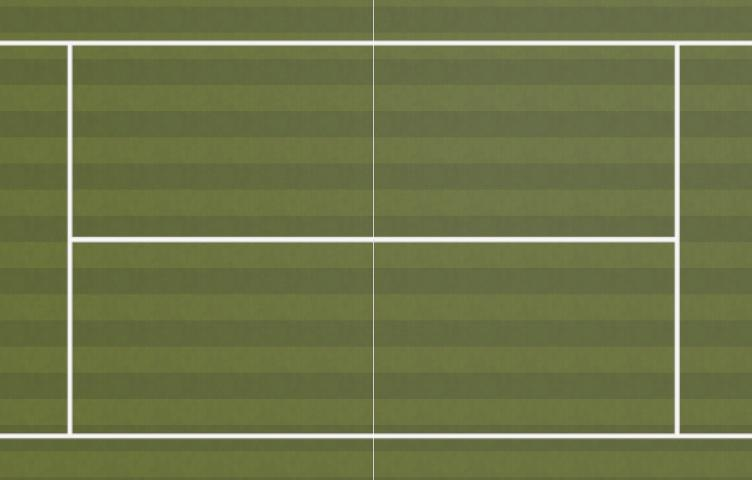
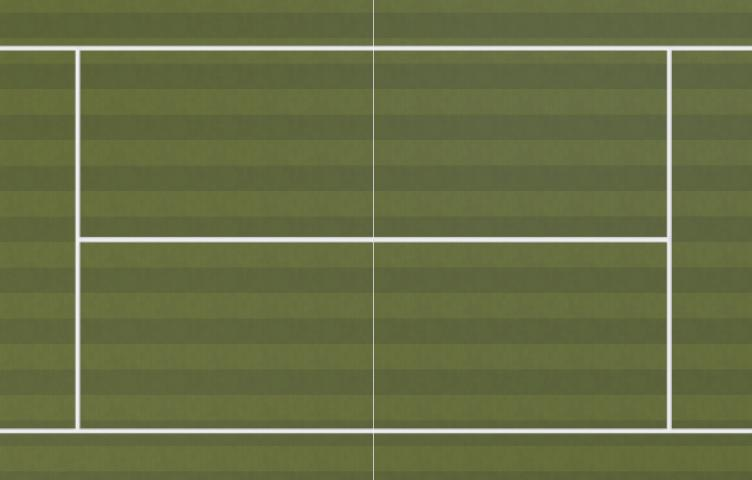
Retook empty court pictures with no shadows and fixed protocol 3 but the centroid detection is not working

Changed region(s): [[0.0, 0.0625, 1.0, 0.9375], [0.7952, 0.4688, 0.8258, 0.5]]

diff --git a/MatlabScripts/Demo/MatlabClient_3.m b/MatlabScripts/Demo/MatlabClient_3.m
@@ -83,7 +83,7 @@ while 1
     errorCode = MoveTennisBall(request, path);
 
     if errorCode == 0 
-        [leftImage, rightImage] = MoveCamera(request, path); 
+        [leftImage, rightImage] = MoveCamera(request, 0); 
 
         % 3. Grayscale Left/Right
         BallLeftGray  = preprocessImage(leftImage);
@@ -129,6 +129,16 @@ end
 write(client,'2'); %Transfer Protocol
 flush(client);
 
+    data = read(client,width*height);   
+    temp = reshape(data,[width,height]);
+    dataProcessed = permute(temp,[2 1]);
+    imageToShow = dataProcessed(:, :, 1);
+    imagesc(imageToShow);
+    colormap gray; % Sets the colormap to gray for better visualization of grayscale images
+    colorbar;  
+    pause(1)
+
+
 % Receive coordinates in 2D array [xLeft,yLeft,xRight,yRight,t][Frame]
 numFrames = read(client, 1, 'uint32');
 xLeft = read(client,numFrames, 'uint32');
@@ -166,23 +176,19 @@ for i = 1:numFrames
             error('Index exceeds the number of rows in ballData file.');
         end
     end
-
-    % Plotting both depths arrays against t
-    figure; % Create a new figure window
-    plot(calculatedDepths_t, calculatedDepths, '-o', 'DisplayName', 'Calculated Depths');
-    hold on; % Hold on to add another plot in the same figure
-    plot(calculatedDepths_t, actualDepths, '-s', 'DisplayName', 'Actual Depths from File');
-    hold off;
-    
-    % Formatting the graph
-    xlabel('Frame Number (t)');
-    ylabel('Depth');
-    title('Comparison of Calculated Depths and Actual Depths');
-    legend show; % Show legend to identify the plots
-
-
-
 end
+% Plotting both depths arrays against t
+figure; % Create a new figure window
+plot(calculatedDepths_t, calculatedDepths, '-o', 'DisplayName', 'Calculated Depths');
+hold on; % Hold on to add another plot in the same figure
+plot(calculatedDepths_t, actualDepths, '-s', 'DisplayName', 'Actual Depths from File');
+hold off;
+
+% Formatting the graph
+xlabel('Frame Number (t)');
+ylabel('Depth');
+title('Comparison of Calculated Depths and Actual Depths');
+legend show; % Show legend to identify the plots
 
 
 %Close Server

diff --git a/MatlabScripts/UnityDistanceTop.m b/MatlabScripts/UnityDistanceTop.m
@@ -6,27 +6,27 @@ close all;
 addpath(genpath('../src'))
 
 %Initialization Parameters
-server_ip   = '127.0.0.1';     %IP address of the Unity Server
+server_ip   = '129.21.151.125';     %IP address of the Unity Server
 server_port = 55001;           %Server Port of the Unity Sever
 
 client = tcpclient(server_ip,server_port);
 fprintf(1,"Connected to server\n");
 serve1 = load('datFiles/wind.dat');
 
-for t = 1 : 50 : 1000
-  % Moves tennis ball to associated position
-  x = serve1(t, 1);
-  y = serve1(t, 2);
-  z = serve1(t, 3);
-
-  % x,y,z,yaw[z],pitch[y],roll[x]
-  pitch = 90;
-  roll = 0;
-  yaw = 90;
-  obj = 2; % 1 means camera, 2 means ball
-  pose = [x,y,z,yaw,pitch,roll, obj]
-  unityImageLeft = unityLink(client,pose);
-  pause(0.1);
+%for t = 1 : 50 : 1000
+%  % Moves tennis ball to associated position
+%  x = serve1(t, 1);
+%  y = serve1(t, 2);
+%  z = serve1(t, 3);
+%
+%  % x,y,z,yaw[z],pitch[y],roll[x]
+%  pitch = 90;
+%  roll = 0;
+%  yaw = 90;
+%  obj = 2; % 1 means camera, 2 means ball
+%  pose = [x,y,z,yaw,pitch,roll, obj]
+%  unityImageLeft = unityLink(client,pose);
+%  pause(0.1);
 
   % Move stereo cameras into position above the court
   x = 0;
@@ -38,9 +38,9 @@ for t = 1 : 50 : 1000
   obj = 1; % 1 means camera, 2 means ball
   pose = [x,y,z,yaw,pitch,roll, obj];
   unityImageLeft = unityLink(client,pose);
-  %subplot(1, 2, 1);
-  %imshow(unityImageLeft);
-  %imwrite(unityImageLeft, 'left.jpg');
+  subplot(1, 2, 1);
+  imshow(unityImageLeft);
+  imwrite(unityImageLeft, 'leftEmptyCourt.jpg');
 
   x2 = 0;
   y2 = 9;
@@ -51,10 +51,10 @@ for t = 1 : 50 : 1000
   obj2 = 1;
   pose2 = [x2,y2,z2,yaw2,pitch2,roll2, obj2];
   unityImageRight = unityLink(client,pose2);
-  %subplot(1, 2, 2);
-  %imshow(unityImageRight);
-  %imwrite(unityImageRight, 'right.jpg');
-end
+  subplot(1, 2, 2);
+  imshow(unityImageRight);
+  imwrite(unityImageRight, 'rightEmptyCourt.jpg');
+%end
 
 %Close Gracefully
 fprintf(1,"Disconnected from server\n");

diff --git a/MatlabScripts/Demo/MoveCamera.m b/MatlabScripts/Demo/MoveCamera.m
@@ -18,6 +18,7 @@ function [unityImageLeft, unityImageRight] = MoveCamera(time, isWind)
   zShift = 0;
 
   if isWind == 1
+    disp('We have wind')
     windData = load('datFiles/wind.dat');
     xShift = windData(time, 1);
     yShift = windData(time, 2);
